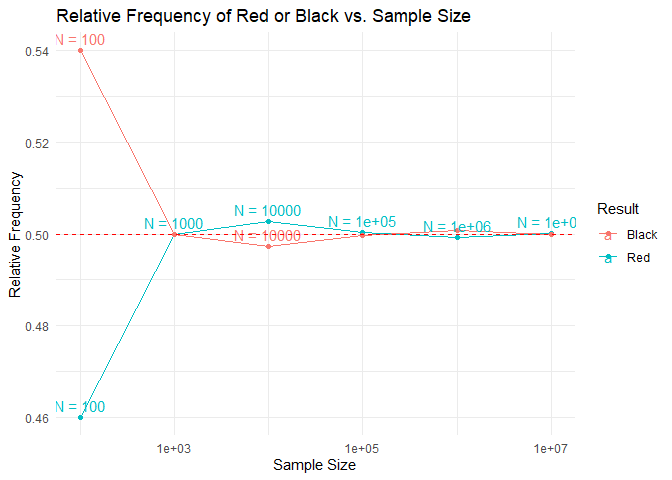
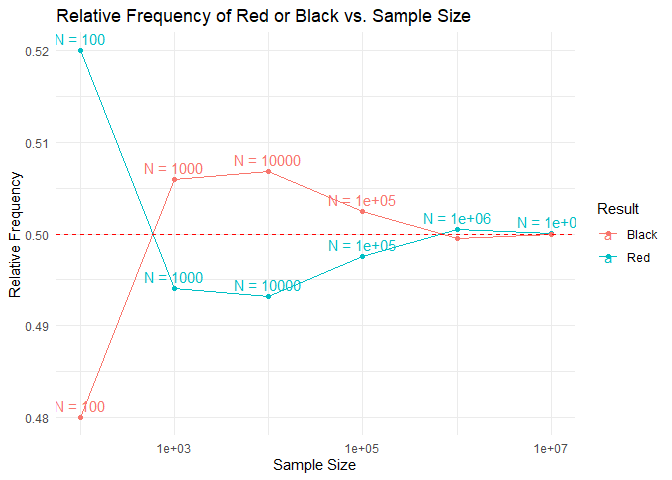
2nd installation

diff --git a/FA2-Lansangan/LANSANGAN_ROMAND-L-FA2.md b/FA2-Lansangan/LANSANGAN_ROMAND-L-FA2.md
@@ -54,14 +54,14 @@ a_df
 ```
 
     ##   result freq_100 freq_1000 freq_10000 freq_100000 freq_1000000 freq_10000000
-    ## 1  Heads       55       487       4966       50135       500097       4998128
-    ## 2  Tails       45       513       5034       49865       499903       5001872
+    ## 1  Heads       49       497       4956       50122       499708       4997826
+    ## 2  Tails       51       503       5044       49878       500292       5002174
     ##   rel_freq_100 rel_freq_1000 rel_freq_10000 rel_freq_100000 rel_freq_1000000
-    ## 1         0.55         0.487         0.4966         0.50135         0.500097
-    ## 2         0.45         0.513         0.5034         0.49865         0.499903
+    ## 1         0.49         0.497         0.4956         0.50122         0.499708
+    ## 2         0.51         0.503         0.5044         0.49878         0.500292
     ##   rel_freq_10000000
-    ## 1         0.4998128
-    ## 2         0.5001872
+    ## 1         0.4997826
+    ## 2         0.5002174
 
 Where freq_100 is equivalent to frequency under 100 experiment size—and
 so on.
@@ -150,14 +150,14 @@ b_df
 ```
 
     ##   result freq_100 freq_1000 freq_10000 freq_100000 freq_1000000 freq_10000000
-    ## 1    Red       46       500       5027       50040       499303       5000477
-    ## 2  Black       54       500       4973       49960       500697       4999523
+    ## 1    Red       52       494       4932       49751       500469       5000259
+    ## 2  Black       48       506       5068       50249       499531       4999741
     ##   rel_freq_100 rel_freq_1000 rel_freq_10000 rel_freq_100000 rel_freq_1000000
-    ## 1         0.46           0.5         0.5027          0.5004         0.499303
-    ## 2         0.54           0.5         0.4973          0.4996         0.500697
+    ## 1         0.52         0.494         0.4932         0.49751         0.500469
+    ## 2         0.48         0.506         0.5068         0.50249         0.499531
     ##   rel_freq_10000000
-    ## 1         0.5000477
-    ## 2         0.4999523
+    ## 1         0.5000259
+    ## 2         0.4999741
 
 Similar to the above item, freq_100 is equivalent to frequency under 100
 experiment size—and so on.
@@ -241,14 +241,14 @@ c_df
 ```
 
     ##   result freq_100 freq_1000 freq_10000 freq_100000 freq_1000000 freq_10000000
-    ## 1   Even       54       500       5001       50031       499936       4999383
-    ## 2    Odd       46       500       4999       49969       500064       5000617
+    ## 1   Even       45       505       4966       50005       500008       5000368
+    ## 2    Odd       55       495       5034       49995       499992       4999632
     ##   rel_freq_100 rel_freq_1000 rel_freq_10000 rel_freq_100000 rel_freq_1000000
-    ## 1         0.54           0.5         0.5001         0.50031         0.499936
-    ## 2         0.46           0.5         0.4999         0.49969         0.500064
+    ## 1         0.45         0.505         0.4966         0.50005         0.500008
+    ## 2         0.55         0.495         0.5034         0.49995         0.499992
     ##   rel_freq_10000000
-    ## 1         0.4999383
-    ## 2         0.5000617
+    ## 1         0.5000368
+    ## 2         0.4999632
 
 Similar to the above items, freq_100 is equivalent to frequency under
 100 experiment size—and so on.
@@ -325,9 +325,9 @@ sec_df
 ```
 
     ##      result freq rel_freq
-    ## 1 Two Heads   25     0.25
-    ## 2 Two Tails   27     0.27
-    ## 3     Split   48     0.48
+    ## 1 Two Heads   26     0.26
+    ## 2 Two Tails   25     0.25
+    ## 3     Split   49     0.49
 
 #### Conclusion:
 
@@ -364,18 +364,18 @@ With experiment done 600 times, thus the “size = 600”.
 ``` r
 third_df <- data.frame(
   result = c("1", "2", "3", "4", "5", "6"),
-  freq = c(sum(third_rand == 1), sum(third_rand == 2), sum(third_rand == 3), sum(third_rand == 4), sum(third_rand == 5), sum(third_rand == "6")),
+  freq = c(sum(third_rand == 1), sum(third_rand == 2), sum(third_rand == 3), sum(third_rand == 4), sum(third_rand == 5), sum(third_rand == 6)),
   rel_freq = c(sum(third_rand == 1)/600, sum(third_rand == 2)/600, sum(third_rand == 3)/600, sum(third_rand == 4)/600, sum(third_rand == 5)/600, sum(third_rand == 6)/600)
 )
 third_df
 ```
 
     ##   result freq  rel_freq
-    ## 1      1  111 0.1850000
-    ## 2      2   95 0.1583333
-    ## 3      3  111 0.1850000
-    ## 4      4  103 0.1716667
-    ## 5      5   77 0.1283333
+    ## 1      1   97 0.1616667
+    ## 2      2  114 0.1900000
+    ## 3      3   91 0.1516667
+    ## 4      4   93 0.1550000
+    ## 5      5  102 0.1700000
     ## 6      6  103 0.1716667
 
 #### Conclusion:
@@ -387,3 +387,12 @@ was repeated increases, it shall approach its actual probability.
 Nevertheless, based on the table above, in an experiment of rolling a
 die coins 600 times, the relative frequency for each outcome is
 relatively similar to each other.
+
+To show the validity of the claim the they are indeed around 0.1667,
+here is the average of rel_freq:
+
+``` r
+mean(third_df[["rel_freq"]], na.rm = TRUE)
+```
+
+    ## [1] 0.1666667
